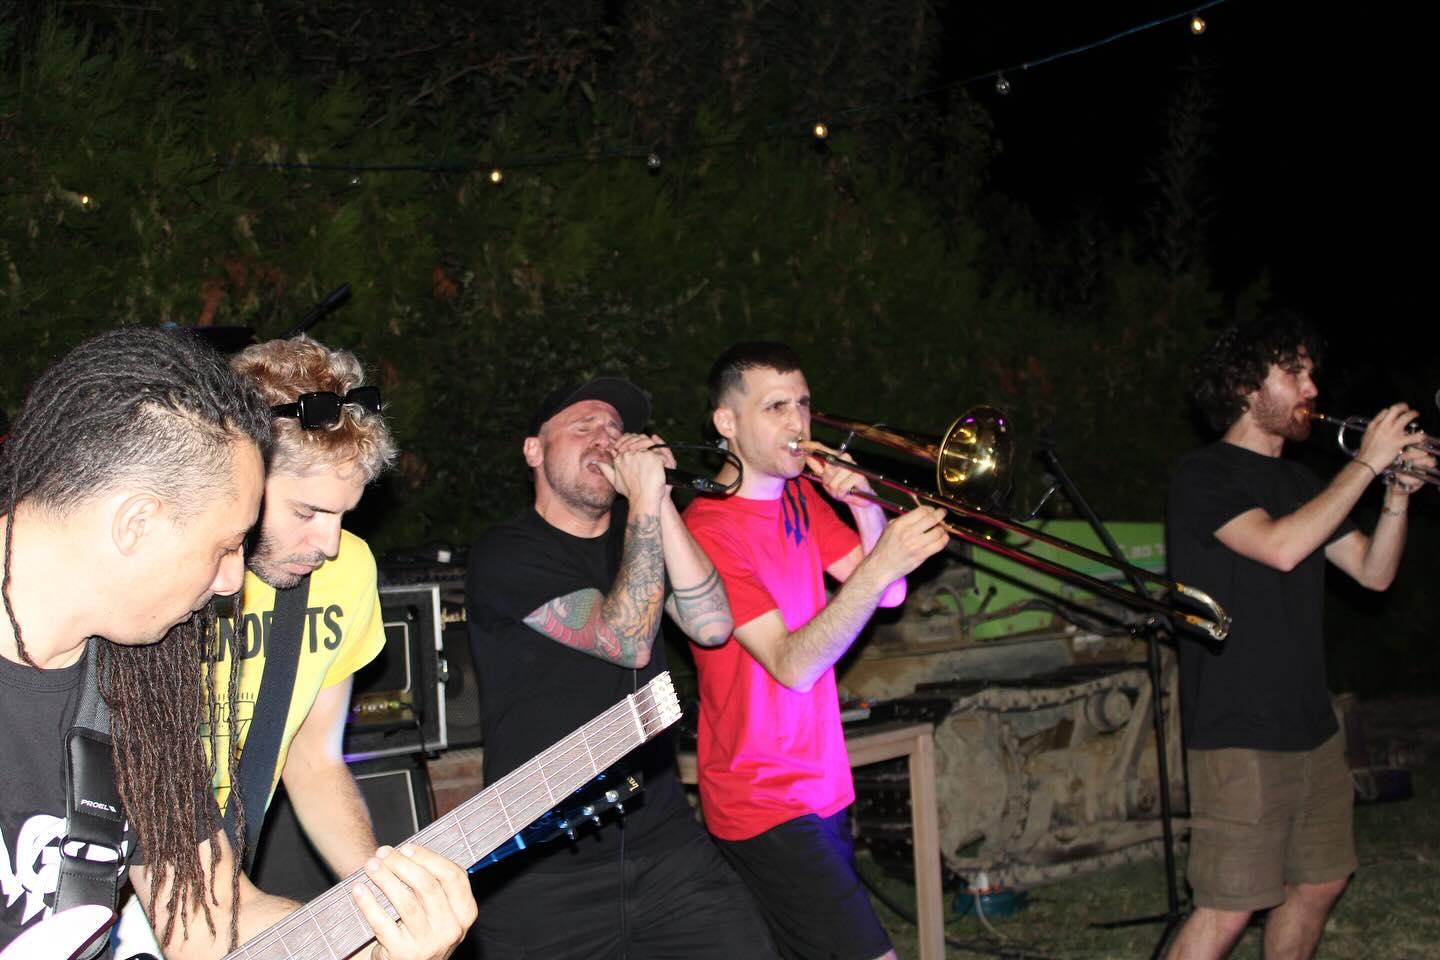
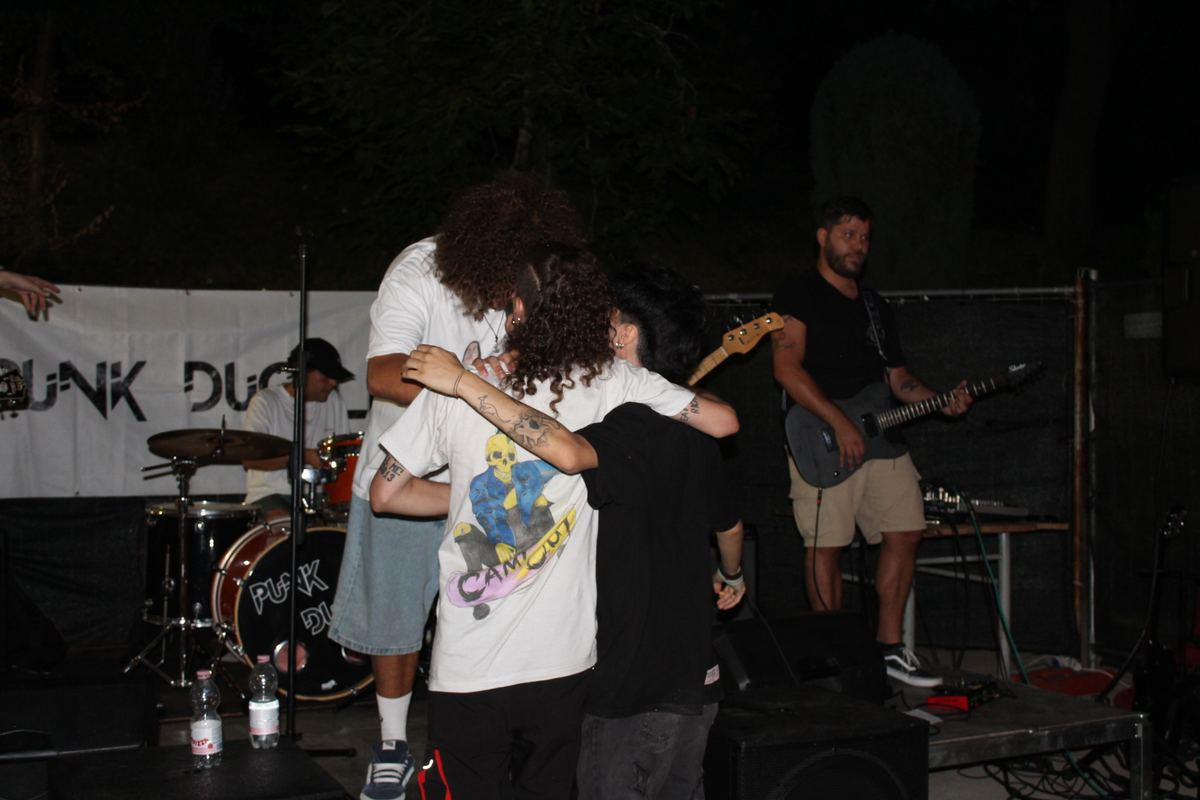
Add files via upload

diff --git a/styles.css b/styles.css
@@ -3,15 +3,15 @@
 :root{--sky:#62b4e2;--orange:#f0702a;--yellow:#f1e86f;--ink:#070707;--paper:#fff6da;--pink:#f02d7a;--blue:#269ce8}
 *{box-sizing:border-box}html{scroll-behavior:smooth}body{margin:0;background:#070707;color:#111;font-family:Inter,system-ui,sans-serif;overflow-x:hidden}body:before{content:"";position:fixed;inset:0;z-index:80;pointer-events:none;opacity:.18;background-image:linear-gradient(rgba(255,255,255,.05) 1px,transparent 1px),linear-gradient(90deg,rgba(255,255,255,.04) 1px,transparent 1px);background-size:34px 34px;mix-blend-mode:screen}a{color:inherit;text-decoration:none}img{display:block;max-width:100%}
 
-.intro{position:fixed;inset:0;z-index:999;display:grid;place-items:center;overflow:hidden;background:#070707;transition:.55s}.intro.hide{opacity:0;visibility:hidden}.tear{position:absolute;top:-10%;bottom:-10%;width:55%;background:#fff5df;filter:drop-shadow(0 0 35px rgba(0,0,0,.4));transition:transform .95s cubic-bezier(.76,0,.24,1)}.tear-left{left:-5%;clip-path:polygon(0 0,100% 0,83% 12%,99% 26%,80% 38%,98% 55%,79% 70%,97% 85%,78% 100%,0 100%)}.tear-right{right:-5%;clip-path:polygon(22% 0,100% 0,100% 100%,20% 100%,3% 85%,21% 70%,3% 55%,22% 38%,3% 26%,22% 12%)}.intro.rip .tear-left{transform:translateX(-115%) rotate(-8deg)}.intro.rip .tear-right{transform:translateX(115%) rotate(8deg)}.intro-noise{position:absolute;inset:-25%;opacity:.25;background:repeating-linear-gradient(0deg,rgba(255,255,255,.09) 0 1px,transparent 1px 4px);animation:noise .25s steps(2) infinite}@keyframes noise{to{transform:translate(-3%,2%)}}.intro-card{position:relative;z-index:4;text-align:center;animation:jitter .4s steps(2) infinite}.intro-card img{width:min(900px,86vw)}.intro-card p{font-weight:900;letter-spacing:.18em;text-transform:uppercase;color:white}@keyframes jitter{50%{transform:translate(2px,-1px)}}
+.intro{position:fixed;inset:0;z-index:999;display:grid;place-items:center;overflow:hidden;background:#070707;transition:.55s}.intro.hide{opacity:0;visibility:hidden}.tear{position:absolute;top:-10%;bottom:-10%;width:55%;background:#fff5df;filter:drop-shadow(0 0 35px rgba(0,0,0,.4));transition:transform .95s cubic-bezier(.76,0,.24,1)}.tear-left{left:-5%;clip-path:polygon(0 0,100% 0,83% 12%,99% 26%,80% 38%,98% 55%,79% 70%,97% 85%,78% 100%,0 100%)}.tear-right{right:-5%;clip-path:polygon(22% 0,100% 0,100% 100%,20% 100%,3% 85%,21% 70%,3% 55%,22% 38%,3% 26%,22% 12%)}.intro.rip .tear-left{transform:translateX(-115%) rotate(-8deg)}.intro.rip .tear-right{transform:translateX(115%) rotate(8deg)}.intro-noise{position:absolute;inset:-25%;opacity:.25;background:repeating-linear-gradient(0deg,rgba(255,255,255,.09) 0 1px,transparent 1px 4px);animation:noise .25s steps(2) infinite}@keyframes noise{to{transform:translate(-3%,2%)}}.intro-card{position:relative;z-index:4;text-align:center;animation:jitter .4s steps(2) infinite}.intro-card img{width:min(800px,84vw);filter:drop-shadow(0 8px 0 #fff) drop-shadow(0 14px 0 rgba(240,112,42,.7))}.intro-card p{font-weight:900;letter-spacing:.18em;text-transform:uppercase;color:white}@keyframes jitter{50%{transform:translate(2px,-1px)}}
 
-.chaos-toggle{position:fixed;right:18px;bottom:18px;z-index:120;background:#111;color:#fff;border:2px solid #fff;padding:10px 12px;font-size:11px;font-weight:900;letter-spacing:.14em;cursor:pointer}.nav{position:fixed;top:0;left:0;right:0;z-index:100;display:flex;align-items:center;justify-content:space-between;gap:22px;padding:12px 4vw;background:#070707;border-bottom:3px solid rgba(255,255,255,.18)}.brand-img img{width:170px;max-height:55px;object-fit:contain}.nav-links{display:flex;gap:24px;color:white;text-transform:uppercase;font-size:13px;font-weight:900;letter-spacing:.1em}.nav-links a:hover{color:var(--yellow)}.nav-icons{display:flex;gap:12px;align-items:center}.ig{width:44px;height:44px;display:grid;place-items:center;background:white;border:2px solid #fff;border-radius:50%}.ig img{width:20px;height:20px}.atrikiri-mini img{width:34px;height:24px;object-fit:contain;border-radius:0}
+.chaos-toggle{position:fixed;right:18px;bottom:18px;z-index:120;background:#111;color:#fff;border:2px solid #fff;padding:10px 12px;font-size:11px;font-weight:900;letter-spacing:.14em;cursor:pointer}.nav{position:fixed;top:0;left:0;right:0;z-index:100;display:flex;align-items:center;justify-content:space-between;gap:22px;padding:12px 4vw;background:#070707;border-bottom:3px solid rgba(255,255,255,.18)}.brand-img img{width:170px;max-height:55px;object-fit:contain;filter:drop-shadow(0 3px 0 #fff)}.nav-links{display:flex;gap:24px;color:white;text-transform:uppercase;font-size:13px;font-weight:900;letter-spacing:.1em}.nav-links a:hover{color:var(--yellow)}.nav-icons{display:flex;gap:12px;align-items:center}.icon{width:44px;height:44px;display:grid;place-items:center;background:white;border:2px solid #fff;border-radius:50%}.icon img{width:20px;height:20px}.atrikiri-mini img{width:85px;max-height:42px;object-fit:contain}
 
-.hero{min-height:110vh;position:relative;display:grid;grid-template-columns:.95fr 1.05fr;align-items:center;gap:4vw;padding:105px 5vw 80px;overflow:hidden;background:var(--sky)}.sky{position:absolute;inset:0;background:url("./assets/sky-bg.jpg") center/cover;filter:saturate(1.05) contrast(1.02);transform:scale(1.05)}.black-paper{position:absolute;left:-5%;right:-5%;bottom:-3%;height:36%;background:#070707;clip-path:polygon(0 24%,8% 18%,18% 26%,31% 14%,46% 22%,58% 13%,72% 26%,86% 16%,100% 24%,100% 100%,0 100%)}.hero-title{position:absolute;top:100px;left:5vw;right:5vw;z-index:2;display:flex;justify-content:center}.hero-title img{width:min(900px,70vw);filter:drop-shadow(0 8px 0 white) drop-shadow(0 14px 0 rgba(0,0,0,.25))}.hero-poster{position:relative;z-index:3;justify-self:center;margin-top:150px}.hero-poster img{width:min(470px,82vw);border:7px solid #111;box-shadow:18px 18px 0 #111,0 28px 90px rgba(0,0,0,.3);transform:rotate(-2deg);animation:floatPoster 5s ease-in-out infinite}@keyframes floatPoster{50%{transform:translateY(-14px) rotate(1deg)}}.hero-info{position:relative;z-index:4;color:white;margin-top:220px}.kicker{display:inline-block;background:var(--orange);color:#111;border:3px solid #111;padding:9px 12px;font-weight:900;letter-spacing:.22em;box-shadow:5px 5px 0 #111}.hero-info h1{font-family:Bangers,cursive;font-size:clamp(58px,8vw,116px);line-height:.86;margin:18px 0;text-shadow:5px 5px 0 #111}.hero-info p{font-size:24px;font-weight:900;text-transform:uppercase;letter-spacing:.12em;text-shadow:2px 2px 0 #111}.buttons,.contact-grid{display:flex;gap:16px;flex-wrap:wrap}.button{display:inline-flex;align-items:center;justify-content:center;padding:15px 20px;border:3px solid #111;box-shadow:6px 6px 0 #111;font-weight:900;text-transform:uppercase;letter-spacing:.08em;transition:.18s}.button:hover{transform:translate(-3px,-3px);box-shadow:9px 9px 0 #111}.primary{background:var(--orange);color:#111}.secondary{background:white;color:#111}
+.hero{min-height:105vh;position:relative;display:grid;grid-template-columns:1fr .95fr;align-items:center;gap:4vw;padding:105px 5vw 90px;overflow:hidden;background:var(--sky)}.sky{position:absolute;inset:0;background:url("./assets/sky-bg.jpg") center/cover;filter:saturate(1.05) contrast(1.02);transform:scale(1.05)}.old-posters{position:absolute;inset:0;background-image:url("./assets/poster-2025.jpg"),url("./assets/poster-2024.jpg"),url("./assets/poster-2023.jpg");background-size:190px,170px,190px;background-repeat:no-repeat;background-position:3% 15%,96% 18%,4% 86%;opacity:.12;filter:saturate(1.2) contrast(1.2)}.black-rip{position:absolute;left:-5%;right:-5%;bottom:-2%;height:32%;background:#070707;clip-path:polygon(0 25%,8% 20%,18% 29%,30% 15%,45% 24%,58% 14%,72% 28%,86% 18%,100% 25%,100% 100%,0 100%)}.hero-copy,.hero-poster{position:relative;z-index:4}.hero-logo{width:min(760px,88vw);filter:drop-shadow(0 7px 0 white) drop-shadow(0 13px 0 rgba(0,0,0,.25));margin-bottom:24px}.hero-poster{justify-self:center}.hero-poster img{width:min(500px,80vw);border:7px solid #111;box-shadow:18px 18px 0 #111,0 28px 90px rgba(0,0,0,.3);transform:rotate(2deg);animation:floatPoster 5s ease-in-out infinite}@keyframes floatPoster{50%{transform:translateY(-14px) rotate(-1deg)}}.kicker{display:inline-block;background:var(--orange);color:#111;border:3px solid #111;padding:9px 12px;font-weight:900;letter-spacing:.22em;box-shadow:5px 5px 0 #111}.hero-copy h1{font-family:Bangers,cursive;font-size:clamp(54px,8vw,116px);line-height:.86;margin:18px 0;text-shadow:5px 5px 0 #fff}.venue{font-size:24px;font-weight:900;text-transform:uppercase;letter-spacing:.12em;text-shadow:2px 2px 0 white}.buttons{display:flex;gap:16px;flex-wrap:wrap}.button{display:inline-flex;align-items:center;justify-content:center;padding:15px 20px;border:3px solid #111;box-shadow:6px 6px 0 #111;font-weight:900;text-transform:uppercase;letter-spacing:.08em;transition:.18s}.button:hover{transform:translate(-3px,-3px);box-shadow:9px 9px 0 #111}.primary{background:var(--orange);color:#111}.secondary{background:white;color:#111}
 
-.section{position:relative;padding:84px 5vw;background:#070707;color:white;border-top:2px solid rgba(255,255,255,.13)}.section-title h2{font-family:Permanent Marker,Bangers,cursive;font-size:clamp(48px,7vw,104px);line-height:.85;margin:0 0 32px;text-transform:uppercase}.orange h2{color:var(--orange)}.blue h2{color:var(--blue)}.pink h2{color:var(--pink)}.censored-grid{display:grid;grid-template-columns:repeat(3,1fr);gap:18px}.censored-grid span{height:52px;background:var(--yellow);border:3px solid #111;box-shadow:5px 5px 0 rgba(255,255,255,.18);position:relative;transform:rotate(-1deg)}.censored-grid span:after{content:"";position:absolute;left:8%;right:8%;top:50%;height:13px;background:#111;transform:translateY(-50%) rotate(-2deg);box-shadow:0 0 0 4px rgba(0,0,0,.1)}.censored-grid span:nth-child(even){transform:rotate(1deg)}
+.section{position:relative;padding:84px 5vw;background:#070707;color:white;border-top:2px solid rgba(255,255,255,.13)}.section-title h2{font-family:Permanent Marker,Bangers,cursive;font-size:clamp(48px,7vw,104px);line-height:.85;margin:0 0 32px;text-transform:uppercase}.orange h2{color:var(--orange)}.blue h2{color:var(--blue)}.pink h2{color:var(--pink)}.censored-box{background:#111;border:4px solid rgba(255,255,255,.25);padding:34px;box-shadow:8px 8px 0 rgba(255,255,255,.08)}.censored-box h3{font-family:Permanent Marker,cursive;font-size:clamp(40px,6vw,76px);color:var(--yellow);margin:0 0 28px}.censored-grid{display:grid;grid-template-columns:repeat(3,1fr);gap:18px}.censored-grid span{height:52px;background:var(--yellow);border:3px solid #111;box-shadow:5px 5px 0 rgba(255,255,255,.18);position:relative;transform:rotate(-1deg)}.censored-grid span:after{content:"";position:absolute;left:8%;right:8%;top:50%;height:13px;background:#111;transform:translateY(-50%) rotate(-2deg);box-shadow:0 0 0 4px rgba(0,0,0,.1)}.censored-grid span:nth-child(even){transform:rotate(1deg)}
 
-.reel-grid{display:grid;grid-template-columns:repeat(3,1fr);gap:24px}.reel-card{position:relative;border:3px solid white;background:#111;box-shadow:8px 8px 0 rgba(255,255,255,.12);overflow:hidden}.reel-card img{width:100%;aspect-ratio:9/16;object-fit:cover;filter:contrast(1.05) brightness(.78)}.reel-card span{position:absolute;inset:0;display:grid;place-items:center;font-size:48px;color:white;text-shadow:0 0 18px #000}.vhs-grid{display:grid;grid-template-columns:repeat(5,1fr);gap:18px}details{background:#171717;border:3px solid rgba(255,255,255,.25);box-shadow:8px 8px 0 rgba(255,255,255,.08)}summary{cursor:pointer;list-style:none;padding:18px;background:linear-gradient(180deg,#242424,#101010);display:flex;flex-direction:column;align-items:center;gap:6px;border-bottom:3px solid rgba(255,255,255,.15)}summary::-webkit-details-marker{display:none}summary b{font-family:Bangers,cursive;background:var(--paper);color:#111;padding:8px 14px;font-size:28px;box-shadow:4px 4px 0 #000}summary em{font-style:normal;font-weight:900;text-transform:uppercase;color:var(--yellow)}.vhs-content{padding:16px}.vhs-content img{width:100%;aspect-ratio:3/4;object-fit:cover;border:3px solid white;margin-bottom:14px}.vhs-content p{font-family:Permanent Marker,cursive;font-size:20px;line-height:1.35;text-transform:uppercase;color:white}.photo-wall{columns:3 280px;column-gap:18px}.photo-wall img{width:100%;margin:0 0 18px;border:3px solid white;box-shadow:8px 8px 0 rgba(255,255,255,.1);break-inside:avoid}.support-card{background:url("./assets/poster-2026.jpg") center/cover;color:white;border:5px solid white;padding:60px;box-shadow:12px 12px 0 rgba(255,255,255,.12);background-blend-mode:multiply;background-color:rgba(0,0,0,.68)}.support-card h2{font-family:Permanent Marker,cursive;font-size:clamp(48px,8vw,110px);line-height:.9;margin:0 0 28px;color:var(--blue);text-transform:uppercase}.contact-grid{justify-content:space-between;align-items:center}.contact p{font-size:22px;line-height:1.5;font-weight:800;max-width:720px}.atrikiri-card{display:grid;gap:10px;place-items:center;background:#111;border:3px solid white;padding:24px;box-shadow:8px 8px 0 rgba(255,255,255,.12)}.atrikiri-card span{text-transform:uppercase;font-weight:900;color:var(--yellow)}.atrikiri-card img{width:180px}footer{padding:32px 5vw;background:#000;color:white;display:flex;justify-content:space-between;gap:18px;text-transform:uppercase;font-weight:900;letter-spacing:.1em}.reveal{opacity:0;transform:translateY(34px);filter:blur(8px);transition:opacity .85s ease,transform .85s ease,filter .85s ease}.reveal.visible{opacity:1;transform:translateY(0);filter:blur(0)}
+.reel-grid{display:grid;grid-template-columns:repeat(3,1fr);gap:24px}.reel-card{position:relative;border:3px solid white;background:#111;box-shadow:8px 8px 0 rgba(255,255,255,.12);overflow:hidden}.reel-card img{width:100%;aspect-ratio:9/16;object-fit:cover;filter:contrast(1.05) brightness(.78)}.reel-card span{position:absolute;inset:0;display:grid;place-items:center;font-size:48px;color:white;text-shadow:0 0 18px #000}.archive-list{display:grid;gap:20px}details{background:#171717;border:4px solid rgba(255,255,255,.25);box-shadow:9px 9px 0 rgba(255,255,255,.08)}summary{cursor:pointer;list-style:none;padding:22px;background:linear-gradient(90deg,#111,#222);display:flex;justify-content:space-between;align-items:center;gap:20px;border-bottom:3px solid rgba(255,255,255,.15)}summary::-webkit-details-marker{display:none}summary b{font-family:Bangers,cursive;background:var(--paper);color:#111;padding:8px 18px;font-size:36px;box-shadow:4px 4px 0 #000}summary em{font-style:normal;font-weight:900;text-transform:uppercase;color:var(--yellow);font-size:20px}.archive-content{display:grid;grid-template-columns:260px 1fr;gap:26px;padding:24px;background:#111}.vhs-case{background:#050505;border:4px solid #333;padding:10px;box-shadow:inset 0 0 20px rgba(255,255,255,.08)}.vhs-case img{width:100%;border:3px solid white;transform:rotate(-1deg)}.archive-content p{font-family:Permanent Marker,cursive;font-size:28px;line-height:1.35;text-transform:uppercase;color:white;margin:0}.photo-wall{columns:3 280px;column-gap:18px}.photo-wall img{width:100%;margin:0 0 18px;border:3px solid white;box-shadow:8px 8px 0 rgba(255,255,255,.1);break-inside:avoid}.support-card{background:url("./assets/poster-2026.jpg") center/cover;color:white;border:5px solid white;padding:60px;box-shadow:12px 12px 0 rgba(255,255,255,.12);background-blend-mode:multiply;background-color:rgba(0,0,0,.68)}.support-card h2{font-family:Permanent Marker,cursive;font-size:clamp(48px,8vw,110px);line-height:.9;margin:0 0 28px;color:var(--blue);text-transform:uppercase}.contact-grid{display:flex;gap:28px;justify-content:space-between;align-items:center}.contact p{font-size:22px;line-height:1.5;font-weight:800;max-width:720px}.atrikiri-card{display:grid;gap:10px;place-items:center;background:#111;border:3px solid white;padding:24px;box-shadow:8px 8px 0 rgba(255,255,255,.12)}.atrikiri-card span{text-transform:uppercase;font-weight:900;color:var(--yellow)}.atrikiri-card img{width:190px}footer{padding:32px 5vw;background:#000;color:white;display:flex;justify-content:space-between;gap:18px;text-transform:uppercase;font-weight:900;letter-spacing:.1em}.reveal{opacity:0;transform:translateY(34px);filter:blur(8px);transition:opacity .85s ease,transform .85s ease,filter .85s ease}.reveal.visible{opacity:1;transform:translateY(0);filter:blur(0)}
 
 @media(prefers-reduced-motion:reduce){*{animation:none!important;transition:none!important}.intro{display:none}.reveal{opacity:1;transform:none;filter:none}}
-@media(max-width:1000px){.nav-links{display:none}.hero{grid-template-columns:1fr;padding-top:100px}.hero-title{top:90px}.hero-title img{width:94vw}.hero-poster{margin-top:130px}.hero-info{margin-top:0;text-align:center}.buttons{justify-content:center}.censored-grid,.reel-grid{grid-template-columns:1fr}.vhs-grid{grid-template-columns:1fr}.contact-grid{display:grid}.photo-wall{columns:1}.brand-img img{width:140px}footer{flex-direction:column}}
+@media(max-width:1000px){.nav-links{display:none}.hero{grid-template-columns:1fr;padding-top:100px}.hero-poster{order:-1}.hero-logo{margin-top:10px}.hero-copy{text-align:center}.buttons{justify-content:center}.censored-grid,.reel-grid{grid-template-columns:1fr}.archive-content{grid-template-columns:1fr}.contact-grid{display:grid}.photo-wall{columns:1}.brand-img img{width:135px}.atrikiri-mini img{width:70px}footer{flex-direction:column}}

diff --git a/index.html b/index.html
@@ -13,7 +13,7 @@
     <div class="tear tear-right"></div>
     <div class="intro-noise"></div>
     <div class="intro-card">
-      <img src="./assets/title.jpg" alt="Punk Ducali Festival">
+      <img src="./assets/punk-ducali-title.png" alt="Punk Ducali Festival">
       <p>VI EDIZIONE · 31 LUGLIO — 1 AGOSTO</p>
     </div>
   </div>
@@ -21,7 +21,7 @@
   <button class="chaos-toggle" id="chaosToggle">ENABLE CHAOS</button>
 
   <nav class="nav">
-    <a class="brand-img" href="#home"><img src="./assets/title.jpg" alt="Punk Ducali Festival"></a>
+    <a class="brand-img" href="#home"><img src="./assets/punk-ducali-title.png" alt="Punk Ducali Festival"></a>
     <div class="nav-links">
       <a href="#lineup">Line up</a>
       <a href="#reel">Rivivi</a>
@@ -31,40 +31,41 @@
       <a href="#contact">Contatti</a>
     </div>
     <div class="nav-icons">
-      <a class="ig" href="https://www.instagram.com/punk_ducali_festival/" target="_blank" rel="noreferrer"><img src="./assets/instagram.svg" alt="Instagram"></a>
-      <a class="ig atrikiri-mini" href="https://www.instagram.com/atrikiri/" target="_blank" rel="noreferrer"><img src="./assets/atrikiri.jpg" alt="Atrikiri"></a>
+      <a class="icon" href="https://www.instagram.com/punk_ducali_festival/" target="_blank" rel="noreferrer"><img src="./assets/instagram.svg" alt="Instagram"></a>
+      <a class="atrikiri-mini" href="https://www.instagram.com/atrikiri/" target="_blank" rel="noreferrer"><img src="./assets/atrikiri.png" alt="Atrikiri"></a>
     </div>
   </nav>
 
   <main>
     <section id="home" class="hero">
-      <div class="sky" data-speed="-0.06"></div>
-      <div class="black-paper"></div>
+      <div class="sky" data-speed="-0.05"></div>
+      <div class="old-posters" data-speed="0.025"></div>
+      <div class="black-rip"></div>
 
-      <div class="hero-title reveal" data-speed="-0.02">
-        <img src="./assets/title.jpg" alt="Punk Ducali Festival">
-      </div>
-
-      <div class="hero-poster reveal" data-speed="0.035">
-        <img src="./assets/poster-2026.jpg" alt="Locandina Punk Ducali Festival VI edizione">
-      </div>
-
-      <div class="hero-info reveal" data-speed="-0.015">
+      <div class="hero-copy reveal" data-speed="-0.02">
+        <img class="hero-logo" src="./assets/punk-ducali-title.png" alt="Punk Ducali Festival">
         <p class="kicker">VI EDIZIONE</p>
         <h1>31 Luglio — 1 Agosto</h1>
-        <p>Villa Comunale · Atri (TE)</p>
+        <p class="venue">Villa Comunale · Atri (TE)</p>
         <div class="buttons">
           <a class="button primary" href="#lineup">Scopri la line up</a>
           <a class="button secondary" href="https://gofund.me/635ff853e" target="_blank" rel="noreferrer">Sostieni il festival</a>
         </div>
       </div>
+
+      <div class="hero-poster reveal" data-speed="0.035">
+        <img src="./assets/poster-2026.jpg" alt="Locandina Punk Ducali Festival VI edizione">
+      </div>
     </section>
 
     <section id="lineup" class="section lineup reveal">
       <div class="section-title orange"><h2>Line up</h2></div>
-      <div class="censored-grid">
-        <span></span><span></span><span></span><span></span><span></span><span></span>
-        <span></span><span></span><span></span><span></span><span></span><span></span>
+      <div class="censored-box">
+        <h3>Line up in arrivo</h3>
+        <div class="censored-grid">
+          <span></span><span></span><span></span><span></span><span></span><span></span>
+          <span></span><span></span><span></span><span></span><span></span><span></span>
+        </div>
       </div>
     </section>
 
@@ -89,43 +90,43 @@
     <section id="archive" class="section archive reveal">
       <div class="section-title pink"><h2>Archivio edizioni</h2></div>
 
-      <div class="vhs-grid">
+      <div class="archive-list">
         <details open>
           <summary><b>2025</b><em>V Edizione</em></summary>
-          <div class="vhs-content">
-            <img src="./assets/poster-2025.jpg" alt="Punk Ducali 2025">
+          <div class="archive-content">
+            <div class="vhs-case"><img src="./assets/poster-2025.jpg" alt="Punk Ducali 2025"></div>
             <p>Marsh Mallows · Latte+ · Cabrera · Punk Ducali · Zia Shaniqua · Lillians · Libidine · Venere Gommosa · The Underdogs · Devasta · Degeneradio · Lil Spino · Pleiades · Cam'Out · Helycobacter · Manny · Noise Caps · Nix</p>
           </div>
         </details>
 
         <details>
           <summary><b>2024</b><em>IV Edizione</em></summary>
-          <div class="vhs-content">
-            <img src="./assets/poster-2024.jpg" alt="Punk Ducali 2024">
+          <div class="archive-content">
+            <div class="vhs-case"><img src="./assets/poster-2024.jpg" alt="Punk Ducali 2024"></div>
             <p>RFC · Spaventapassere · Civic-50 · Loser Name · Punk Ducali · Zia Shaniqua · Thousand Years Between · Penelope Aspetta · Kusameze · Random Act · I Treni · Fainted · The Blink Bang Theory · Degeneradio · Cam'Out · Jack Anal · Stoneguard · Dalts</p>
           </div>
         </details>
 
         <details>
           <summary><b>2023</b><em>III Edizione</em></summary>
-          <div class="vhs-content">
-            <img src="./assets/poster-2023.jpg" alt="Punk Ducali 2023">
+          <div class="archive-content">
+            <div class="vhs-case"><img src="./assets/poster-2023.jpg" alt="Punk Ducali 2023"></div>
             <p>Antefatti · Punk Ducali · Zia Shaniqua · Kusameze · Pentailed · Deathwood · SHS Bears · Cam'Out · Fainted · Karma Piatta · Calliope · PsicoAnalisi · Voiceless</p>
           </div>
         </details>
 
         <details>
           <summary><b>2022</b><em>II Edizione</em></summary>
-          <div class="vhs-content">
-            <img src="./assets/poster-2022.jpg" alt="Punk Ducali 2022">
+          <div class="archive-content">
+            <div class="vhs-case"><img src="./assets/poster-2022.jpg" alt="Punk Ducali 2022"></div>
             <p>Punk Ducali · Penelope Aspetta · Uino · Francesco Crispi · Donquixote · Loud Sound</p>
           </div>
         </details>
 
         <details>
           <summary><b>2020</b><em>I Edizione</em></summary>
-          <div class="vhs-content">
-            <img src="./assets/poster-2020.jpg" alt="Punk Ducali 2020">
+          <div class="archive-content">
+            <div class="vhs-case"><img src="./assets/poster-2020.jpg" alt="Punk Ducali 2020"></div>
             <p>Punk Ducali · Deathwood · Le Crisi del Colle · Psicoanalisi · Helycobacter · Francesco Crispi</p>
           </div>
         </details>
@@ -145,6 +146,8 @@
         <img src="./assets/live-08.jpg" alt="Punk Ducali live">
         <img src="./assets/live-09.jpg" alt="Punk Ducali live">
         <img src="./assets/live-10.jpg" alt="Punk Ducali live">
+        <img src="./assets/live-11.jpg" alt="Punk Ducali live">
+        <img src="./assets/live-12.jpg" alt="Punk Ducali live">
       </div>
     </section>
 
@@ -164,7 +167,7 @@
         </div>
         <a class="atrikiri-card" href="https://www.instagram.com/atrikiri/" target="_blank" rel="noreferrer">
           <span>Evento organizzato da</span>
-          <img src="./assets/atrikiri.jpg" alt="Atrikiri">
+          <img src="./assets/atrikiri.png" alt="Atrikiri">
         </a>
       </div>
     </section>
